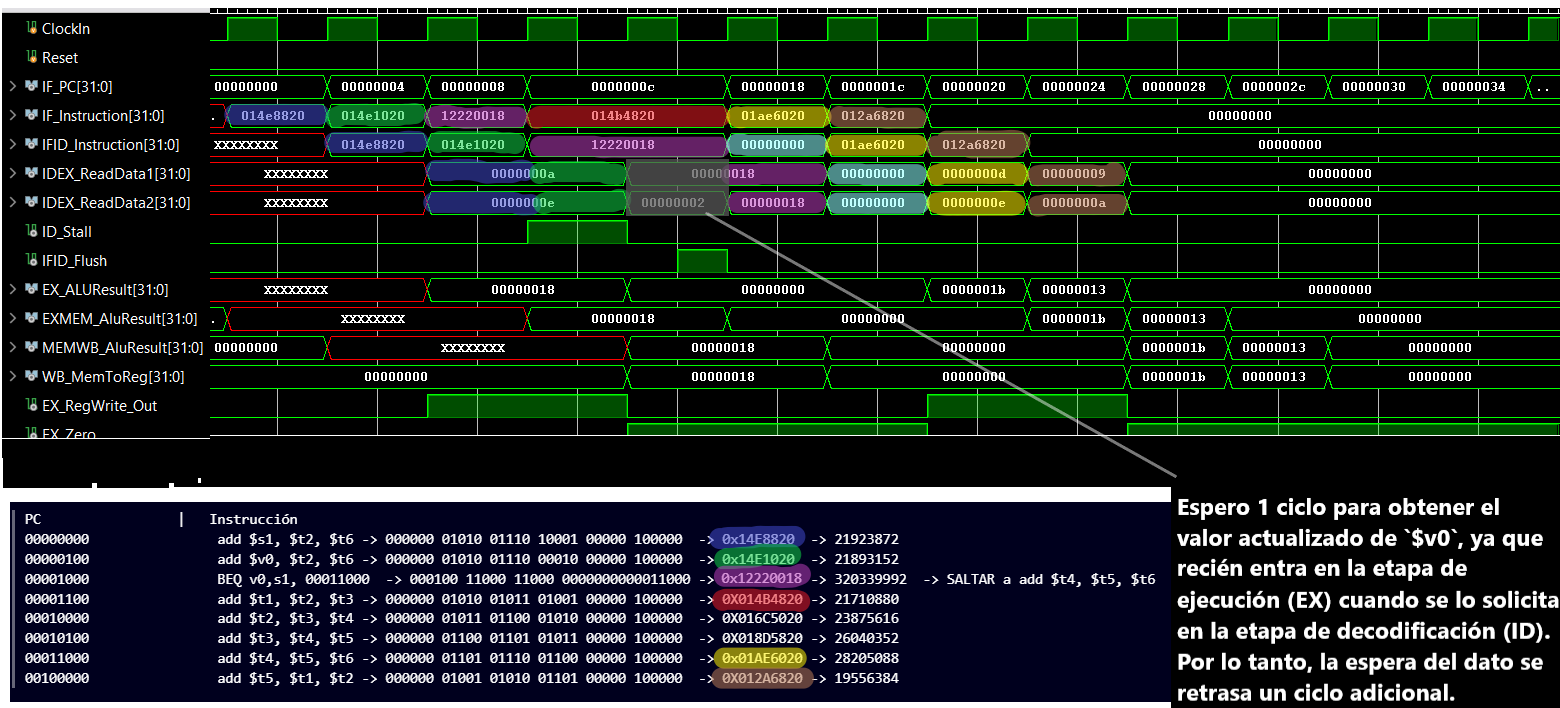
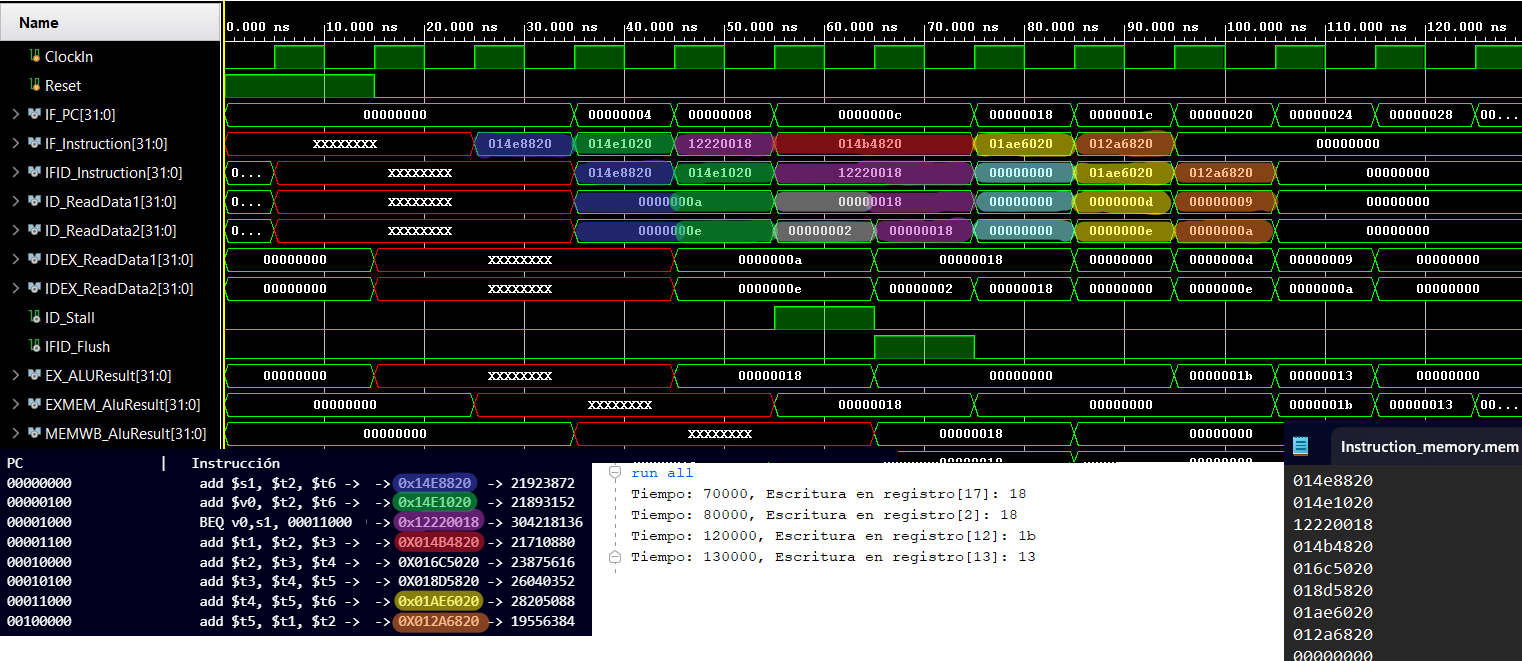
branch & load init

diff --git a/tp3/README.md b/tp3/README.md
@@ -716,7 +716,7 @@ El objetivo es implementar el funcionamiento de estas instrucciones dentro de **
 
 
 
-## Riesgo de Control y su Mitigación
+### Riesgo de Control y su Mitigación
 
 
 El **riesgo de control** surge de la necesidad de tomar una decisión basada en los resultados de una instrucción mientras otras aún se están ejecutando.
@@ -781,6 +781,20 @@ Considerando que `$t8=24d=18h` NO se produce hazard en la instruccion de salto y
 
 <p align="center"> <img src="img/image69.png" alt=""> </p>
 
+Cuando `BEQ` entra en la etapa de **Instruction Fetch (IF)**, el procesador todavía no sabe si el salto será tomado o no.  
+Por lo tanto, en el siguiente ciclo, ya ha comenzado a cargar la instrucción: `add $t1, $t2, $t3` asumiendo que el salto NO se tomará.  
+
+Sin embargo, en la etapa **Instruction Decode (ID)**, `BEQ` evalúa la condición `$t8 == $t8`, que es verdadera, y decide que el programa DEBE saltar a `0x00011000` en lugar de continuar con `0x00001100`.  
+
+Esto significa que la instrucción: `add $t1, $t2, $t3` que ya estaba en el pipeline es incorrecta y debe eliminarse.  
+
+#### ¿Cómo se soluciona?
+
+Para solucionar esto, el procesador introduce un **bubble** (flush) en ID en el pipeline.  
+
+Un **bubble** es un ciclo vacío donde no se ejecuta ninguna instrucción real, lo que da tiempo al procesador para descartar la instrucción incorrecta (`add $t1, $t2, $t3`) y cargar la correcta: `add $t4, $t5, $t6  # En la dirección 0x00011000`
+
+
 
 #### Resultado
 
@@ -811,21 +825,73 @@ PC                 |   Instrucción
 
 <p align="center"> <img src="img/image71.png" alt=""> </p>
 
+<p align="center"> <img src="img/image80.png" alt=""> </p>
+
+En este caso, como el salto **NO** se realiza porque `$t1` es diferente de `$t8`, no es necesario insertar una burbuja. La ejecución continuará normalmente con la siguiente instrucción en la secuencia.
+
+Si `$t1` es diferente de `$t8` y el salto no ocurre, **no debería haber una burbuja**, ya que no hay necesidad de esperar por la resolución de una instrucción de salto.
+
+
+### Branch y Hazard de Datos
+
+#### Fuentes recomendadas  
+- [Video: Branch Hazards (YouTube)](https://www.youtube.com/watch?v=cOWxinc5oRk)  
+- [Video: Data Hazards (YouTube)](https://www.youtube.com/watch?v=EW9vtuthFJY)  
+
+Hasta ahora, nos hemos limitado a analizar peligros relacionados con operaciones aritméticas y transferencias de datos. Sin embargo, también existen **hazards** en el **pipeline** relacionados con las instrucciones de **branch**.  
+
+Para mantener el flujo del **pipeline**, es necesario buscar una nueva instrucción en cada ciclo de reloj. Sin embargo, las instrucciones de **branch** pueden alterar el flujo de ejecución, generando retrasos y afectando el rendimiento del procesador.  
+
+
+#### Asumir que la branch No se Toma
+
+Para descartar instrucciones, simplemente cambiamos los valores originales de control a ceros (STALL), de manera similar a como lo hicimos para detener el pipeline en un peligro de datos tipo LOAD-USE (Avance anterior). La diferencia es que, en el caso de los peligros de control, debemos modificar las tres instrucciones en las etapas IF, ID y EX cuando la branch alcanza la etapa MEM. En cambio, para los peligros de carga-uso, solo cambiamos los valores de control en la etapa ID y dejamos que las instrucciones se propaguen por el pipeline. Descartar instrucciones, entonces, implica poder vaciar las etapas IF, ID y EX del pipeline.
+
+Las razones son que los peligros de control son relativamente fáciles de entender, ocurren con **menor** frecuencia que los peligros de datos, y no existe una técnica tan efectiva contra los peligros de control como el reenvío (forwarding) lo es para los peligros de datos. 
+
+#### Ejemplo de Branch + Hazard de datos
+
+Supongamos el siguiente ejemplo  
+(Ejemplo inspirado en *"5-Stage Pipeline Processor Execution Example"*)  
+
+🔗 [Ver video en YouTube](https://www.youtube.com/watch?v=EW9vtuthFJY)
+
+##### CASO 1: BRANCH INCORRECTO, NO SE DEBE TOMAR EL SALTO.
+
+
+<p align="center"> <img src="img/image78.png" alt=""> </p>
+
+
+
+En la instrucción `add $v0, $t2, $t6`, el valor de `$v0` se actualiza y estará disponible después de la etapa de ejecución (inmediatamente después de la etapa `EX/MEM`). 
+
+Sin embargo, en la instrucción de branch `BNE $v0, $s1, 00011000`, que se encuentra justo después, hay una dependencia de datos con `$v0`. Esta instrucción intenta decodificarse, pero aún no puede obtener el valor correcto de `$v0`, ya que este aún se encuentra en proceso de ejecución en la ALU.
+
+Para resolver este problema, se requiere un mecanismo de **reenvío de datos** y **stall** en el pipeline. En este caso, la instrucción de rama se debe detener un ciclo en la etapa de **decodificación (ID)** hasta que el resultado de `$v0` esté disponible. Esto introduce un retraso en la ejecución de la siguiente instrucción: `add $t1, $t2, $t3`
+
+Esta instrucción deberá esperar en la etapa de **búsqueda de instrucciones (IF)** hasta que la rama pueda continuar.
+
+Una vez que la dependencia se resuelve mediante el reenvío y la burbuja, la instrucción de rama puede continuar su ejecución normalmente, permitiendo que la siguiente instrucción también progrese en el pipeline.
+
+
+##### CASO 2: BRANCH CORRECTO,  SE DEBE TOMAR EL SALTO.
+
+
+<p align="center"> <img src="img/image79.png" alt=""> </p>
+
+
+
+La primera instrucción (`add $v0, $t2, $t6`) escribe su resultado en `$v0`, pero su valor solo estará disponible en la etapa **EXMEM inmediatamente**. La siguiente instrucción (`BNE $v0, $s1, offset`) necesita leer `$v0` en la etapa **ID**, pero aún no ha sido escrito, lo que genera una dependencia de datos. Para evitar errores, el procesador detiene la ejecución de `BNE` en la etapa **ID**, provocando un **stall** de un ciclo de reloj.  
+
+Este retraso impide que la siguiente instrucción (`add $t1, $t2, $t3`) sea decodificada a tiempo. Sin embargo, el procesador ya ha comenzado a buscar la instrucción `add`, lo que significa que cuando finalmente se resuelve la branch, la instrucción `add` ya ha sido cargada en el pipeline. Cuando el procesador detecta que la branch sí se debe tomar, se da cuenta de que la instrucción `add $t1, $t2, $t3` no es válida y la convierte en un `NOP`, introduciendo una burbuja en el pipeline.  
+
+Finalmente, después de resolver la bifurcación, el procesador comienza a buscar la instrucción correcta (`add $t4, $t5, $t6`) y la ejecución continúa con normalidad. Este retraso y la burbuja en el pipeline son consecuencia de no haber predicho correctamente la bifurcación y de la dependencia de datos con `$v0`.  
 
 
 
 
 ### Caso M: BEQ con HAZARD
 
-Hasta ahora, nos hemos limitado a analizar peligros relacionados con operaciones aritméticas y transferencias de datos. Sin embargo, también existen peligros en el pipeline relacionados con las instrucciones de branch.  Para mantener el flujo del pipeline, se debe buscar una nueva instrucción en cada ciclo de reloj.
-
-#### Asumir que la branch No se Toma
-
-Detener el pipeline hasta que se complete el branch es demasiado lento. Una mejora sobre esta estrategia es predecir que el branch no se tomará y continuar ejecutando las instrucciones de manera secuencial. Si el branch efectivamente se toma, las instrucciones que se estaban buscando y decodificando deben ser descartadas, y la ejecución continúa en la dirección objetivo de la branch. Si las bifurcaciones no se toman la mitad del tiempo y el costo de descartar instrucciones es bajo, esta optimización reduce a la mitad el costo de los peligros de control.
-
-Para descartar instrucciones, simplemente cambiamos los valores originales de control a ceros (STALL), de manera similar a como lo hicimos para detener el pipeline en un peligro de datos tipo LOAD-USE. La diferencia es que, en el caso de los peligros de control, debemos modificar las tres instrucciones en las etapas IF, ID y EX cuando la branch alcanza la etapa MEM. En cambio, para los peligros de carga-uso, solo cambiamos los valores de control en la etapa ID y dejamos que las instrucciones se propaguen por el pipeline. Descartar instrucciones, entonces, implica poder vaciar las etapas IF, ID y EX del pipeline.
-
-Esta sección sobre los peligros de control es más breve que las secciones anteriores sobre peligros de datos. Las razones son que los peligros de control son relativamente fáciles de entender, ocurren con menor frecuencia que los peligros de datos, y no existe una técnica tan efectiva contra los peligros de control como el reenvío (forwarding) lo es para los peligros de datos. Por lo tanto, utilizamos estrategias más simples. En este apartado, analizaremos dos métodos para resolver peligros de control y una optimización para mejorar estas estrategias.
 
 ```assembly 
             PC                 |   Instrucción   
@@ -840,11 +906,18 @@ Esta sección sobre los peligros de control es más breve que las secciones ante
 
 ``` 
 
+
+
+#### Interpretación
+
+<p align="center"> <img src="img/image81.png" alt=""> </p>
+
 #### Resultado
+
 
 <p align="center"> <img src="img/image73.png" alt=""> </p>
 
-<p align="center"> <img src="img/image74.png" alt=""> </p>
+
 
 
 
@@ -891,7 +964,7 @@ Considerando que `$t8=24d=18h` y `$t7=23d=17h ` NO se produce hazard en la instr
 
 #### Resultado
 
-<p align="center"> <img src="img/image76.png" alt=""> </p>
+<p align="center"> <img src="img/image82.png" alt=""> </p>
 
 
 #### BNE sin HAZARD (CONDICIÓN ERRONEA)
@@ -908,9 +981,13 @@ PC                 |   Instrucción
 00100000                add $t5, $t1, $t2 -> 000000 01001 01010 01101 00000 100000  -> 0X012A6820 -> 19556384 
 ``` 
 
-Considerando que `$t8=24d=18h` NO se produce hazard en la instruccion de salto ya que este solo necesita t8 el cual ya fue cargado con anterioridad
+Considerando que `$t8=24d=18h` NO se produce hazard en la instruccion de salto ya que este solo necesita t8 el cual ya fue cargado con anterioridad.
 
-<p align="center"> <img src="img/image77.png" alt=""> </p>
+#### Resultado
+
+<p align="center"> <img src="img/image83.png" alt=""> </p>
+
+
 
 
 
@@ -930,4 +1007,6 @@ PC                 |   Instrucción
 00100000                add $t5, $t1, $t2 -> 000000 01001 01010 01101 00000 100000  -> 0X012A6820 -> 19556384 
 ```
 
-La complicacion aparece en la siguiente secuencia de instrucciones:
+#### Resultado
+
+<p align="center"> <img src="img/image84.png" alt=""> </p>
